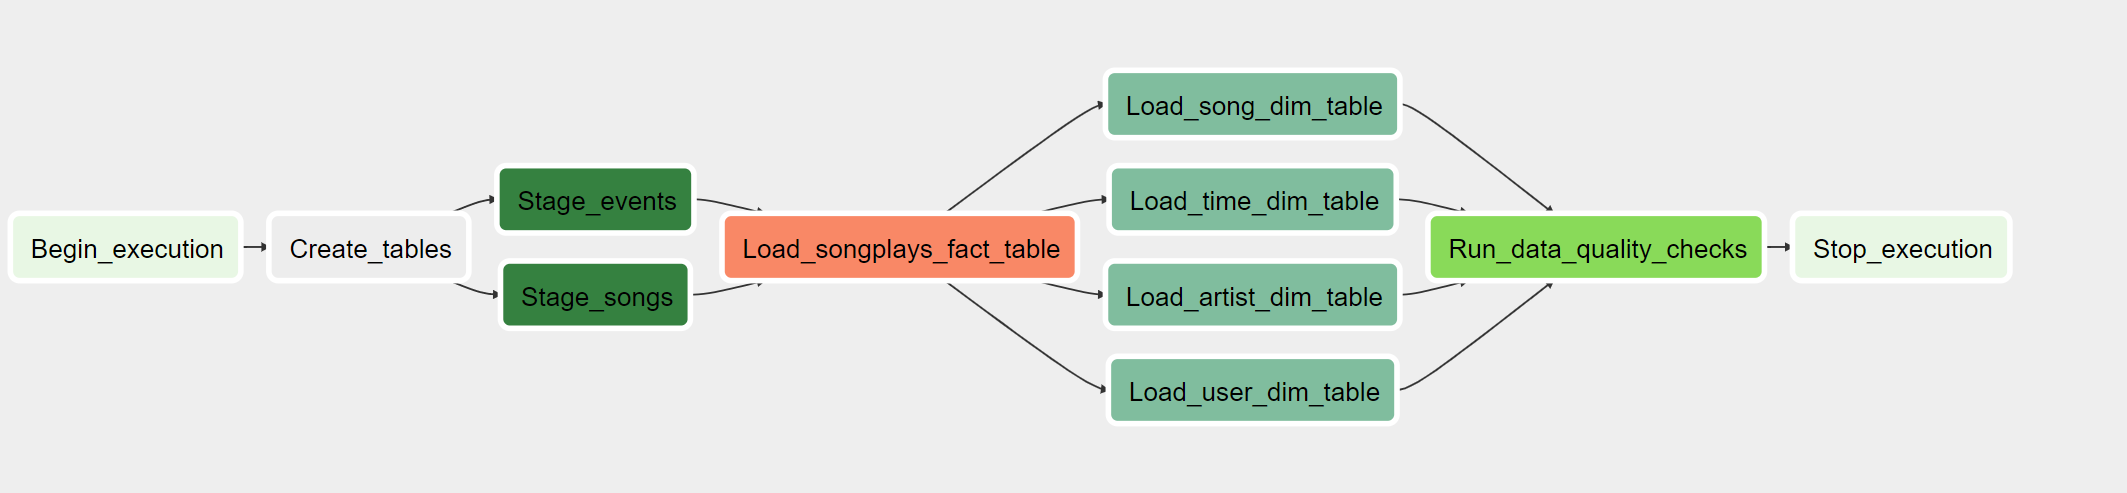
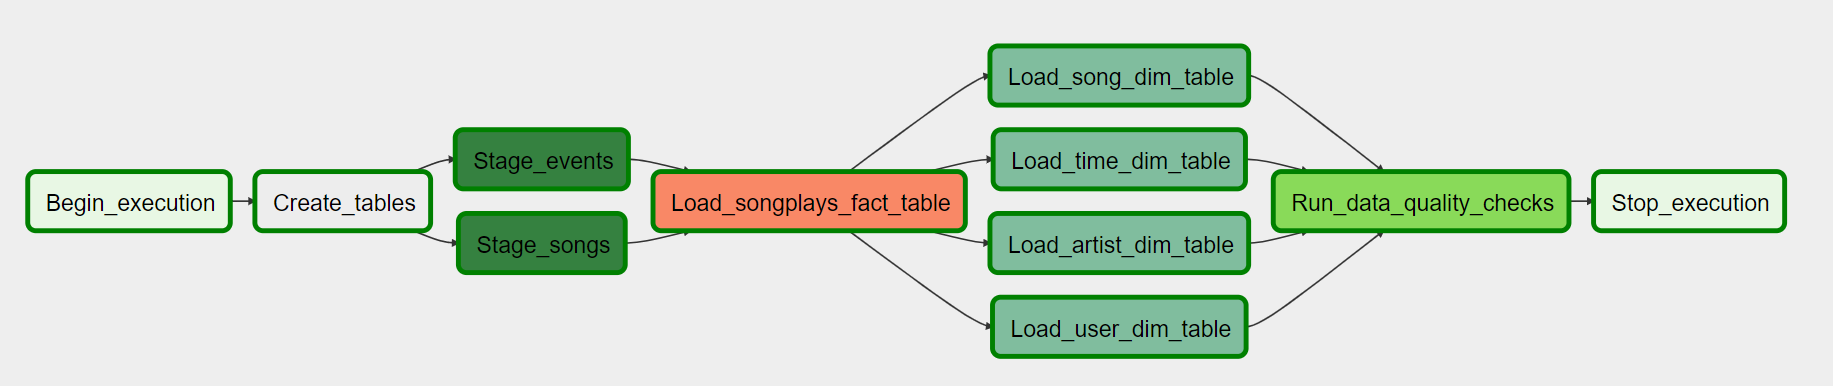
Minor modification and renew graph view
Modify operator and dag
Renew dag graph view image

2021/08/14

diff --git a/airflow/dags/s3toRedshift_dwh_dag.py b/airflow/dags/s3toRedshift_dwh_dag.py
@@ -7,11 +7,21 @@ from airflow.operators.dummy_operator import DummyOperator
 from airflow.operators import (LoadFactOperator, StageToRedshiftOperator, LoadDimensionOperator, DataQualityOperator)
 from helpers import SqlQueries
 
+#Create default argument for dag
+default_args = {
+    'owner': 'burger_wu',
+    'start_date': datetime.utcnow(),
+    'depends_on_past': False,
+    'catchup': False,
+    'retries': 2,
+    'retry_delay': timedelta(minutes = 5)
+}
+
 #Create DAG with daily schedule_interval and start data as now
 dag = DAG('s3toRedshift_dwh_dag',
-          start_date = datetime.utcnow(),
+          default_args = default_args,
           description = 'Load and transform data in Redshift with Airflow',
-          schedule_interval = '@daily')
+          schedule_interval = '@hourly')
 
 #Create start_operator task
 start_operator = DummyOperator(task_id = 'Begin_execution',  dag = dag)
@@ -53,7 +63,8 @@ load_songplays_table = LoadFactOperator(
     dag = dag,
     redshift_conn_id = "redshift",
     table = "songplays",
-    sql_queries = SqlQueries.songplay_table_insert)
+    sql_queries = SqlQueries.songplay_table_insert,
+    append_only = False)
 
 #Create load_user_dimension_table task
 load_user_dimension_table = LoadDimensionOperator(
@@ -61,15 +72,17 @@ load_user_dimension_table = LoadDimensionOperator(
     dag = dag,
     redshift_conn_id = "redshift",
     table = "users",
-    sql_queries = SqlQueries.user_table_insert)
-
+    sql_queries = SqlQueries.user_table_insert,
+    append_only = False)
+    
 #Create load_song_dimension_table task
 load_song_dimension_table = LoadDimensionOperator(
     task_id = 'Load_song_dim_table',
     dag = dag,
     redshift_conn_id = "redshift",
     table = "songs",
-    sql_queries = SqlQueries.song_table_insert)
+    sql_queries = SqlQueries.song_table_insert,
+    append_only = False)
 
 #Create load_artist_dimension_table task
 load_artist_dimension_table = LoadDimensionOperator(
@@ -77,7 +90,8 @@ load_artist_dimension_table = LoadDimensionOperator(
     dag = dag,
     redshift_conn_id ="redshift",
     table = "artists",
-    sql_queries = SqlQueries.artist_table_insert)
+    sql_queries = SqlQueries.artist_table_insert,
+    append_only = False)
 
 #Create load_time_dimension_table task
 load_time_dimension_table = LoadDimensionOperator(
@@ -85,7 +99,8 @@ load_time_dimension_table = LoadDimensionOperator(
     dag = dag,
     redshift_conn_id = "redshift",
     table = "time",
-    sql_queries = SqlQueries.time_table_insert)
+    sql_queries = SqlQueries.time_table_insert,
+    append_only = False)
 
 #Create run_quality_checks task
 run_quality_checks = DataQualityOperator(

diff --git a/airflow/plugins/operators/load_dimension.py b/airflow/plugins/operators/load_dimension.py
@@ -18,20 +18,28 @@ class LoadDimensionOperator(BaseOperator):
                  redshift_conn_id="redshift",
                  table='',
                  sql_queries = '',
+                 append_only = False, #Determine whether to wipe out table first or only append data
                  *args, **kwargs):
 
         super(LoadDimensionOperator, self).__init__(*args, **kwargs)
         self.table = table
         self.redshift_conn_id = redshift_conn_id
         self.sql_queries = sql_queries
-
+        self.append_only = append_only
 
     def execute(self, context):
         """
         Execution function of LoadFactOperator
         """
         #Create PostgresHook to connect to redshift
-        redshift = PostgresHook(postgres_conn_id=self.redshift_conn_id)
+        redshift = PostgresHook(postgres_conn_id = self.redshift_conn_id)
+        
+        #Wipe table first if append_only is set to False
+        if self.append_only == False:
+            self.log.info("Because append_only is set to False, deleting original data from table {}".format(self.table))
+            redshift.run("""
+            DELETE FROM {}
+            """.format(self.table))
         
         #Run sql insert command in redshift
         redshift.run("""

diff --git a/airflow/plugins/operators/load_fact.py b/airflow/plugins/operators/load_fact.py
@@ -18,19 +18,29 @@ class LoadFactOperator(BaseOperator):
                  redshift_conn_id="redshift",
                  table="",
                  sql_queries = '',
+                 append_only = False, #Determine whether to wipe out table first or only append data
                  *args, **kwargs):
 
         super(LoadFactOperator, self).__init__(*args, **kwargs)
         self.redshift_conn_id = redshift_conn_id
         self.table = table
         self.sql_queries = sql_queries
-
+        self.append_only = append_only
+        
     def execute(self, context):
         """
         Execution function of LoadFactOperator
         """
         #Create PostgresHook to connect to redshift
         redshift = PostgresHook(postgres_conn_id=self.redshift_conn_id)
+        
+        #Wipe table first if append_only is set to False
+        if self.append_only == False:
+            
+            self.log.info("Because append_only is set to False, deleting original data from table {}".format(self.table))           
+            redshift.run("""
+            DELETE FROM {}
+            """.format(self.table))
         
         #Run sql command in redshift
         redshift.run("""
